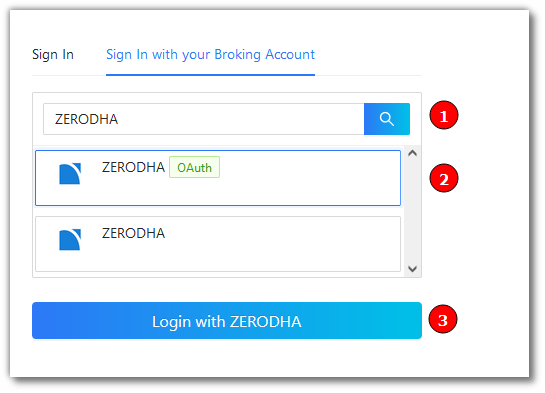
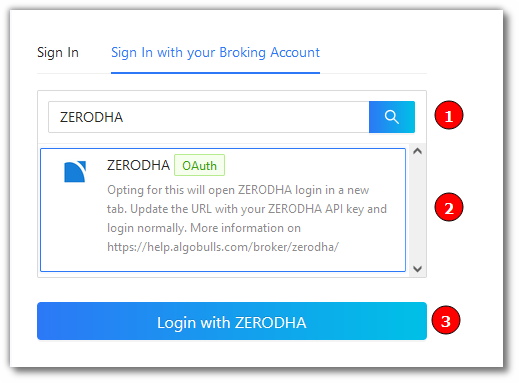
corrections and changes

diff --git a/docs/broker/zerodha.md b/docs/broker/zerodha.md
@@ -37,8 +37,7 @@ This activity will help you to link your broking account to the AlgoBulls accoun
 
 !!! Note
     * Login to your registered AlgoBulls account first and then perform the below steps
-
-If you have done this activity once before, then you can directly skip to the [Login](#lets-start) (Let's Start) section
+    * If you have done this activity once before, then you can directly skip to the [Daily Activity](#daily-activity-login) section
 
 * Visit [https://kite.trade](https://kite.trade) and click on `Login`
 
@@ -66,6 +65,7 @@ If you have done this activity once before, then you can directly skip to the [L
     
 !!! Note
     * Make payment once redirected to the payment gateway and then continue the below steps
+    * This API subscription has to be renewed periodically (monthly)
 
 * Now click on the newly created app name
 
@@ -89,8 +89,12 @@ https://app.algobulls.com/loading?st=zerodha&k=uS3r@piKey&s=uS3r@pis3cr3t
 
 [ ![Zerodha](imgs/zerodha/change_redirect_url.png "Click to Enlarge or Ctrl+Click to open in a new Tab") ](imgs/zerodha/change_redirect_url.png)
 
-### Let's Start
+### Daily Activity (Login)
 ---
+
+!!! Note
+    * Perform the following steps at the start of every trading day
+
 * Visit the AlgoBulls [Login Page](https://app.algobulls.com/user/login) and click on `Sign In with your Broking Account`
 
 [ ![Zerodha](imgs/siwyba.png "Click to Enlarge or Ctrl+Click to open in a new Tab") ](imgs/siwyba.png)
@@ -116,7 +120,7 @@ https://kite.zerodha.com/connect/login?api_key=pleaseenteryourapikey
 then the new URL will be:
 
 ```html
-https://kite.zerodha.com/connect/login?api_key=pleaseenteruS3r@piKey
+https://kite.zerodha.com/connect/login?api_key=uS3r@piKey
 ```
 
 [ ![Zerodha](imgs/zerodha/zerodha_oauth_3.png "Click to Enlarge or Ctrl+Click to open in a new Tab") ](imgs/zerodha/zerodha_oauth_3.png)
@@ -139,7 +143,21 @@ Now provide data for the following fields:
 
 [ ![Zerodha](imgs/zerodha/zerodha_oauth_5.png "Click to Enlarge or Ctrl+Click to open in a new Tab") ](imgs/zerodha/zerodha_oauth_5.png)
 
-If login is successful, you will directly land on the [Broking](https://app.algobulls.com/account/broking) page
+!!! Note
+
+* If you are facing issues with login, try the following steps:
+
+    * Open a new tab
+
+    * Visit [https://kite.zerodha.com/](https://kite.zerodha.com/)
+
+    * Login with your credentials
+
+    * Logout
+
+    * Close the tab
+
+    * Perform steps (1). to (8). again
 
 ## Bind your Broking Account
 ---
@@ -153,4 +171,4 @@ The following steps will help you to make sure you have binded your broker accou
 
 ## Important Points to Note
 ---
-* You have to login at the start of every trading day before you start trading using the steps given for [Login](#lets-start) (Let's Start) section
+* You have to login at the start of every trading day before you can commence trading using the steps given in the [Daily Activity](#daily-activity-login) section
